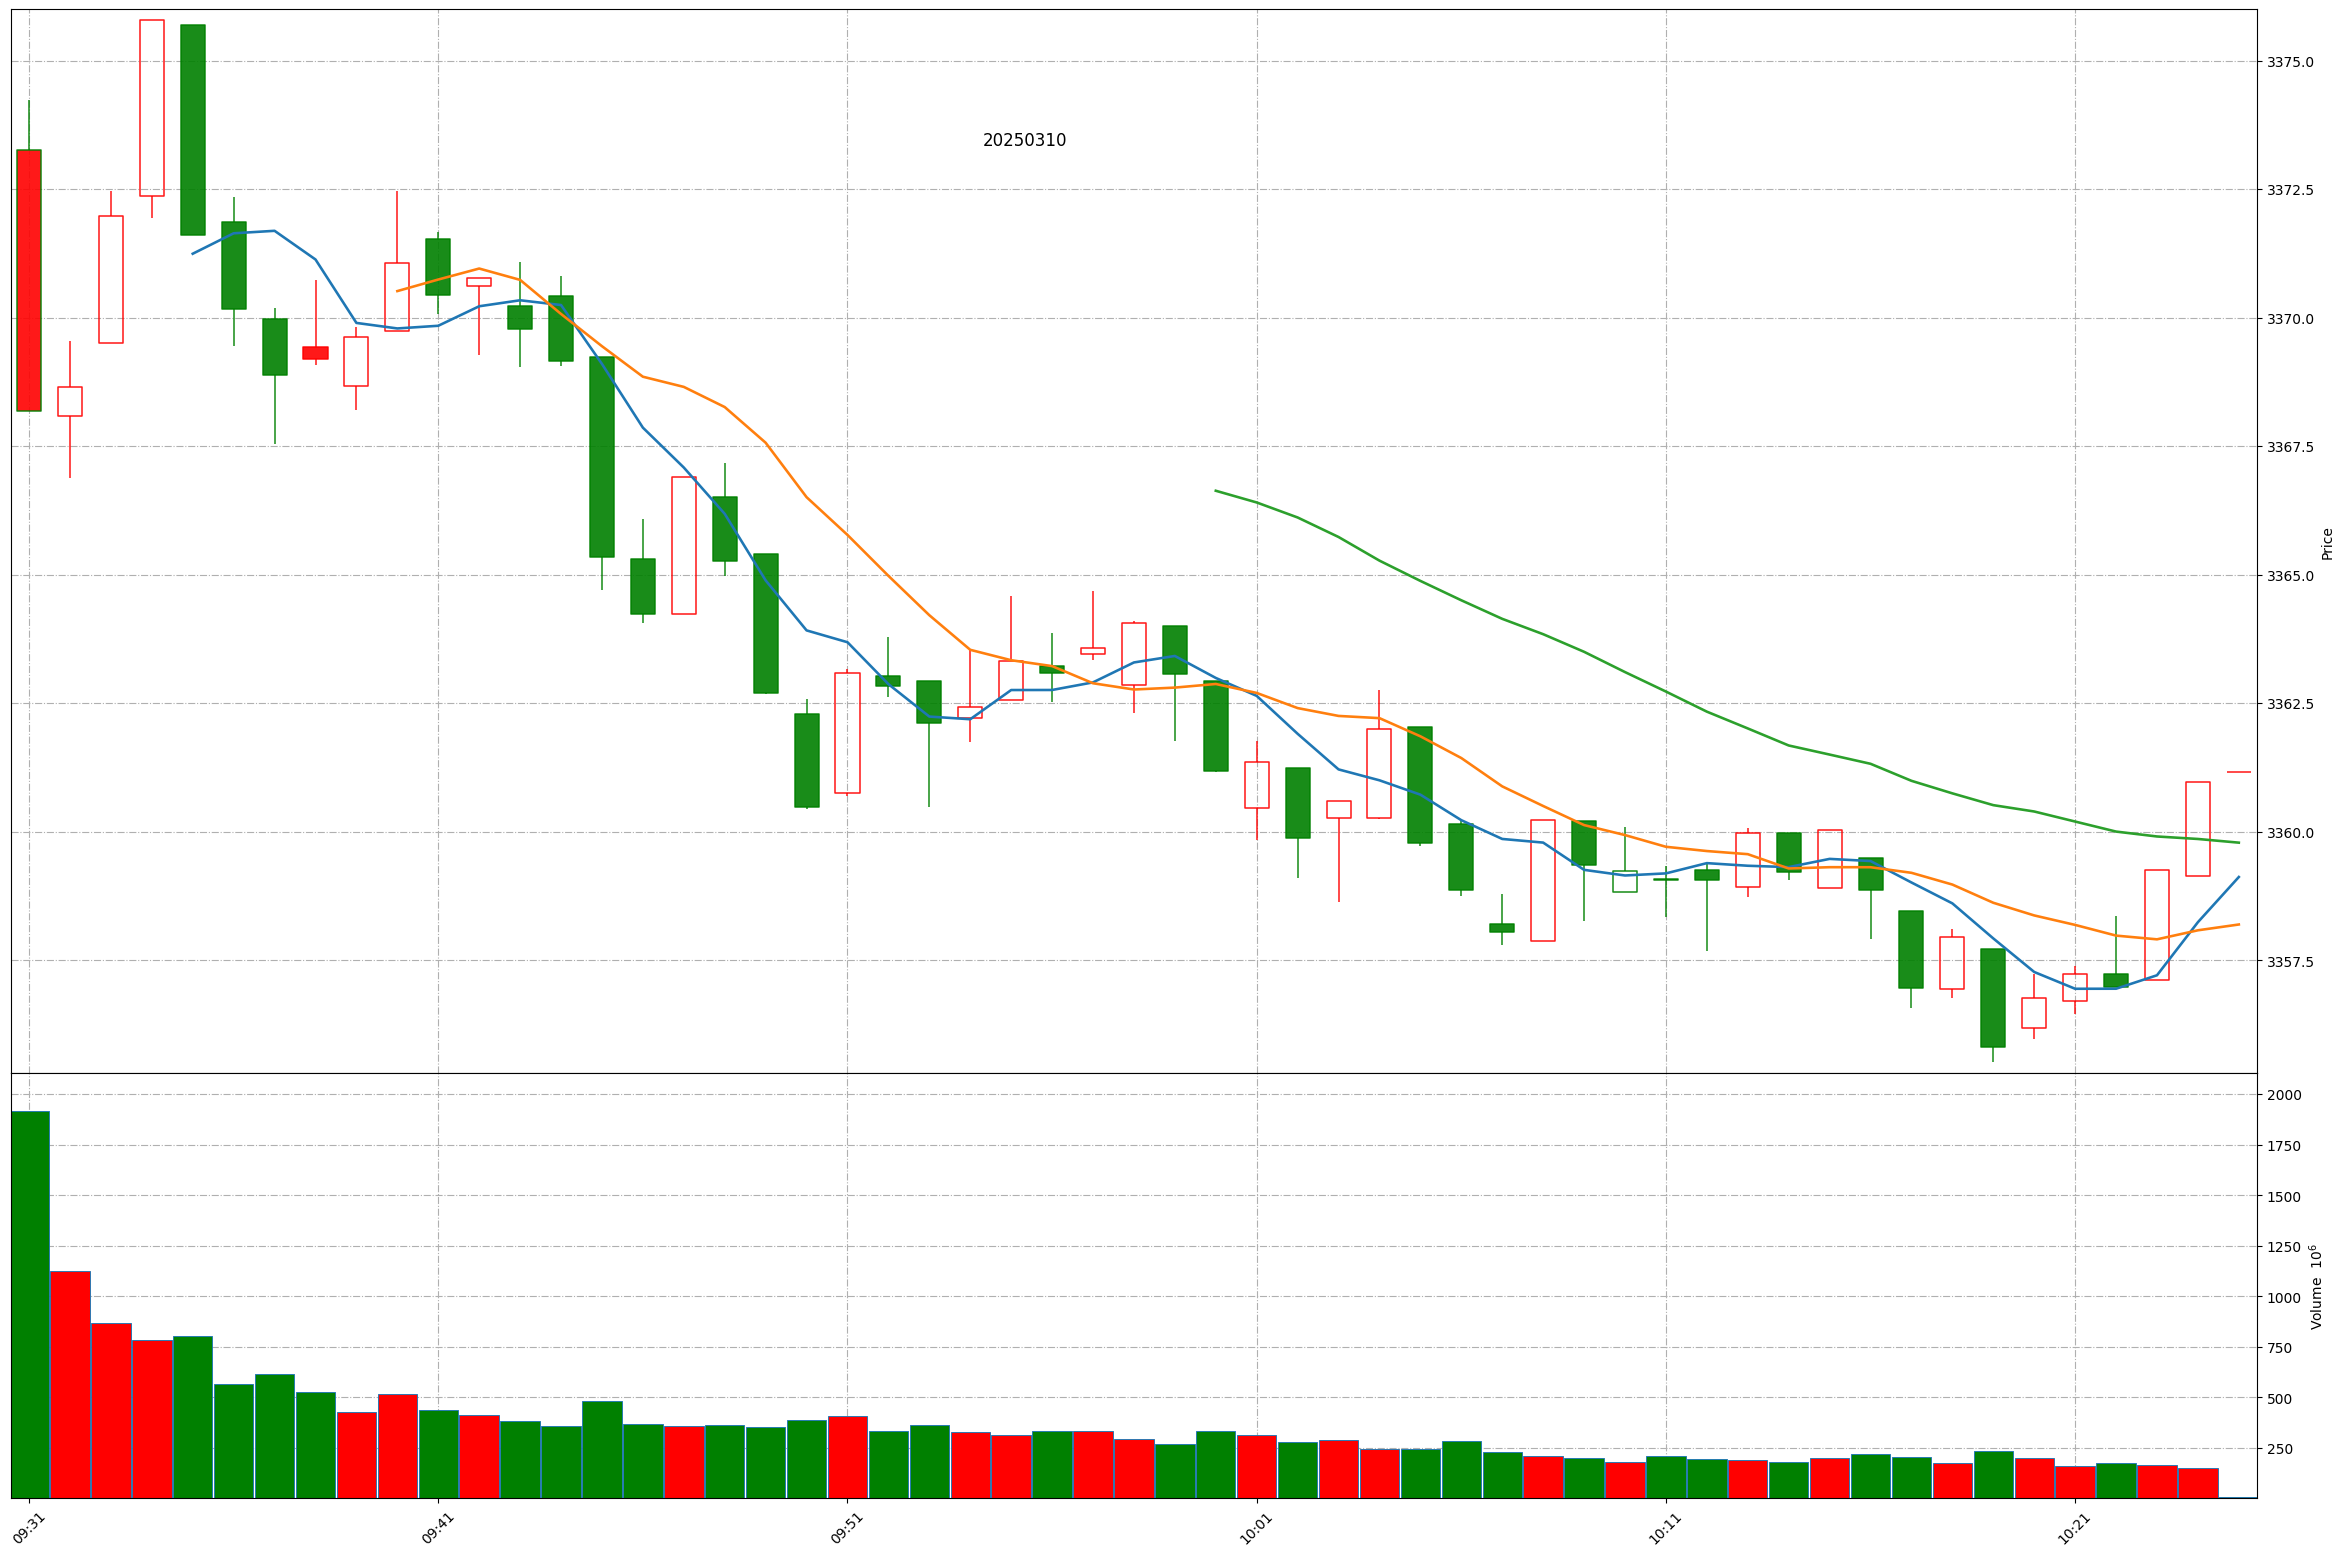
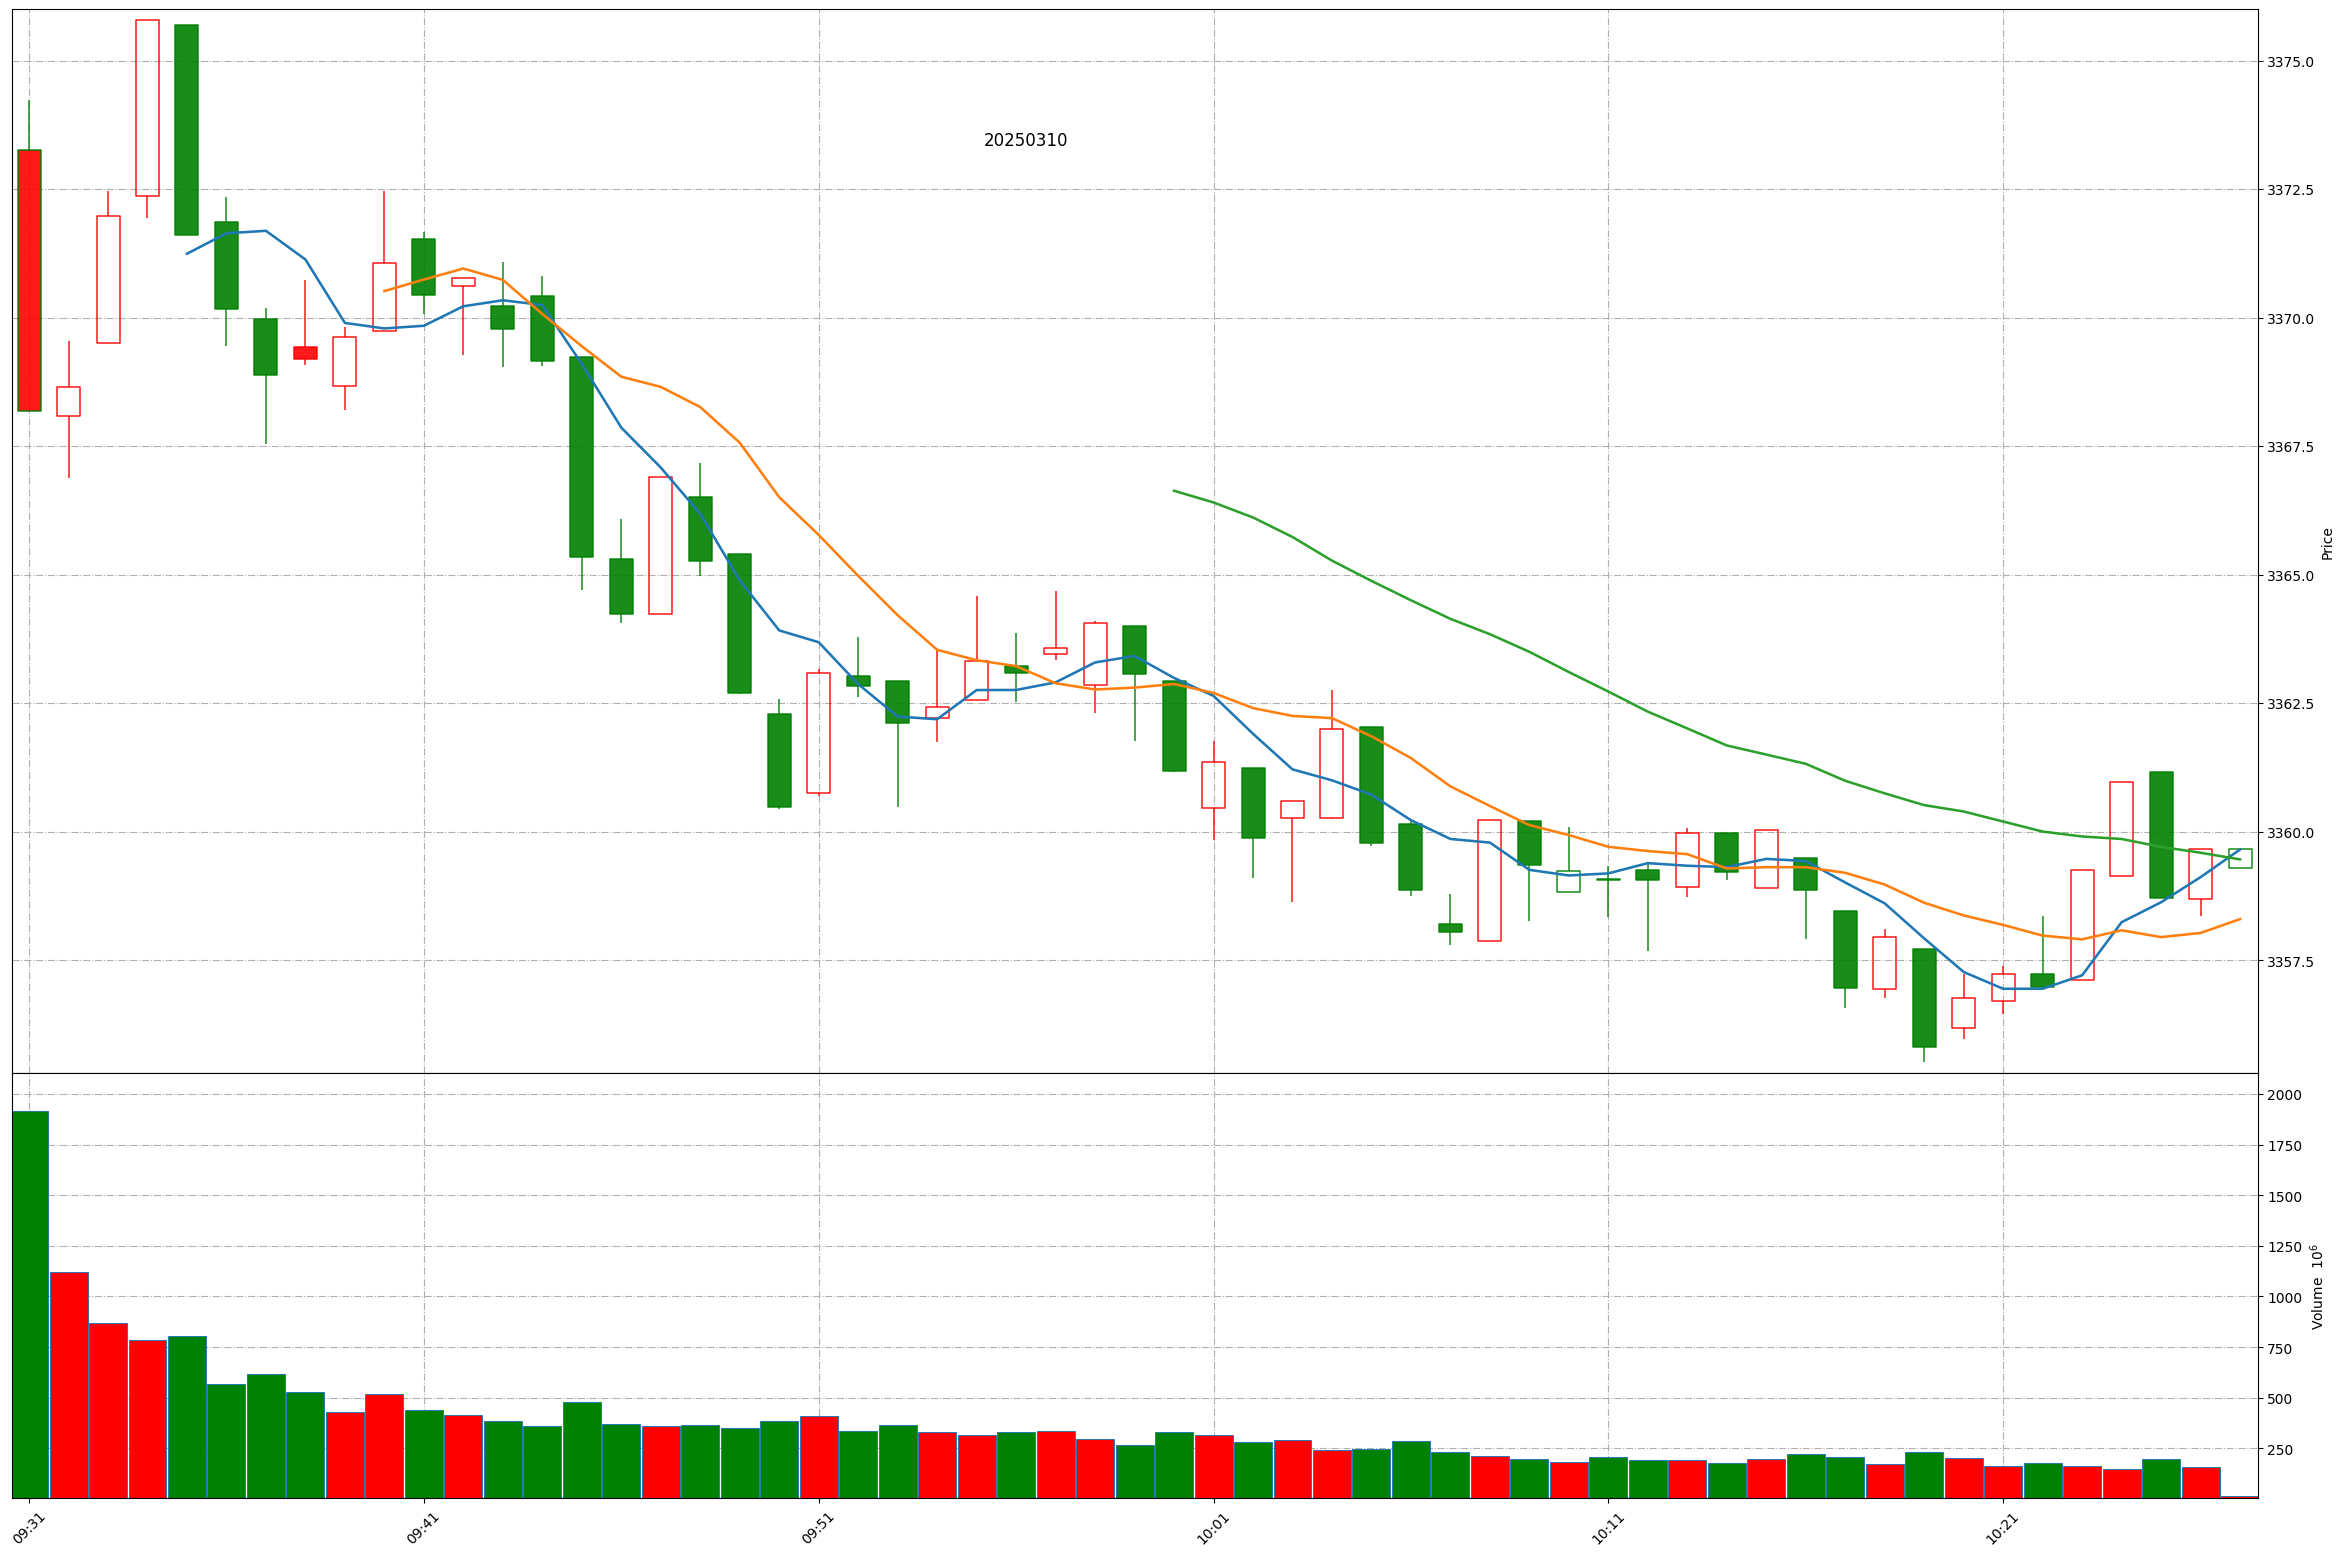
Github action update at 2025-03-10 10:26:27.

diff --git a/README.md b/README.md
@@ -1,11 +1,11 @@
 
 # Daily-A-share-market-quotes 每日 A 股指数（5min 更新）- 20250310
 
-### 上证指数 20250310 10:24
+### 上证指数 20250310 10:26
 ![](./fig/2025/3/20250310-sh000001.png)
 
-### 深证成指 20250310 10:24
+### 深证成指 20250310 10:26
 ![](./fig/2025/3/20250310-sz399001.png)
 
-### 北证50 20250310 10:24
+### 北证50 20250310 10:26
 ![](./fig/2025/3/20250310-bj899050.png)
